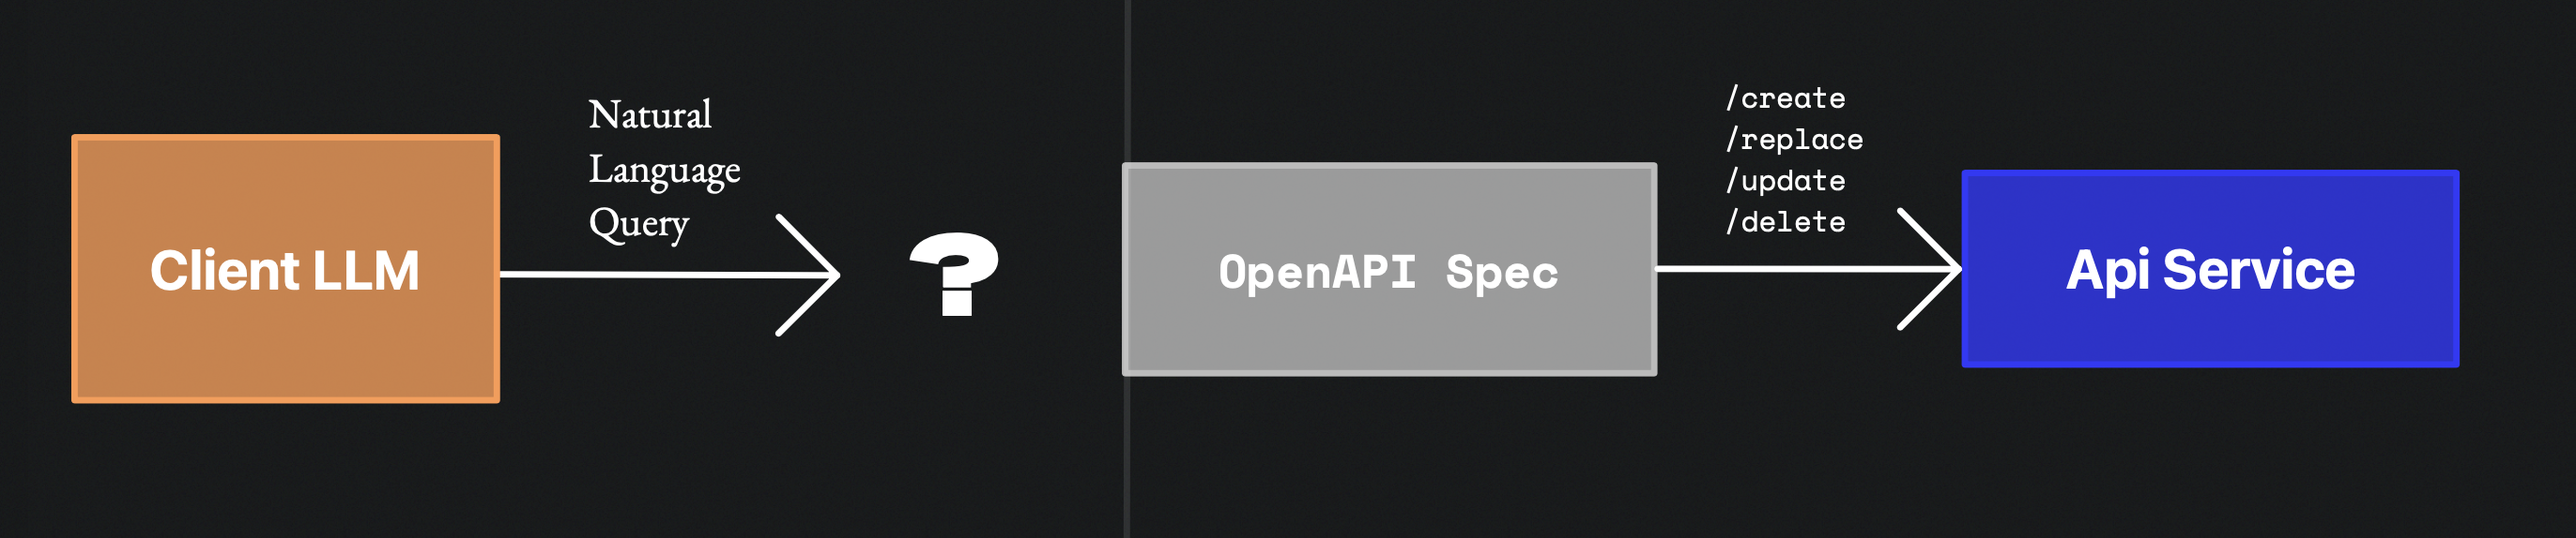
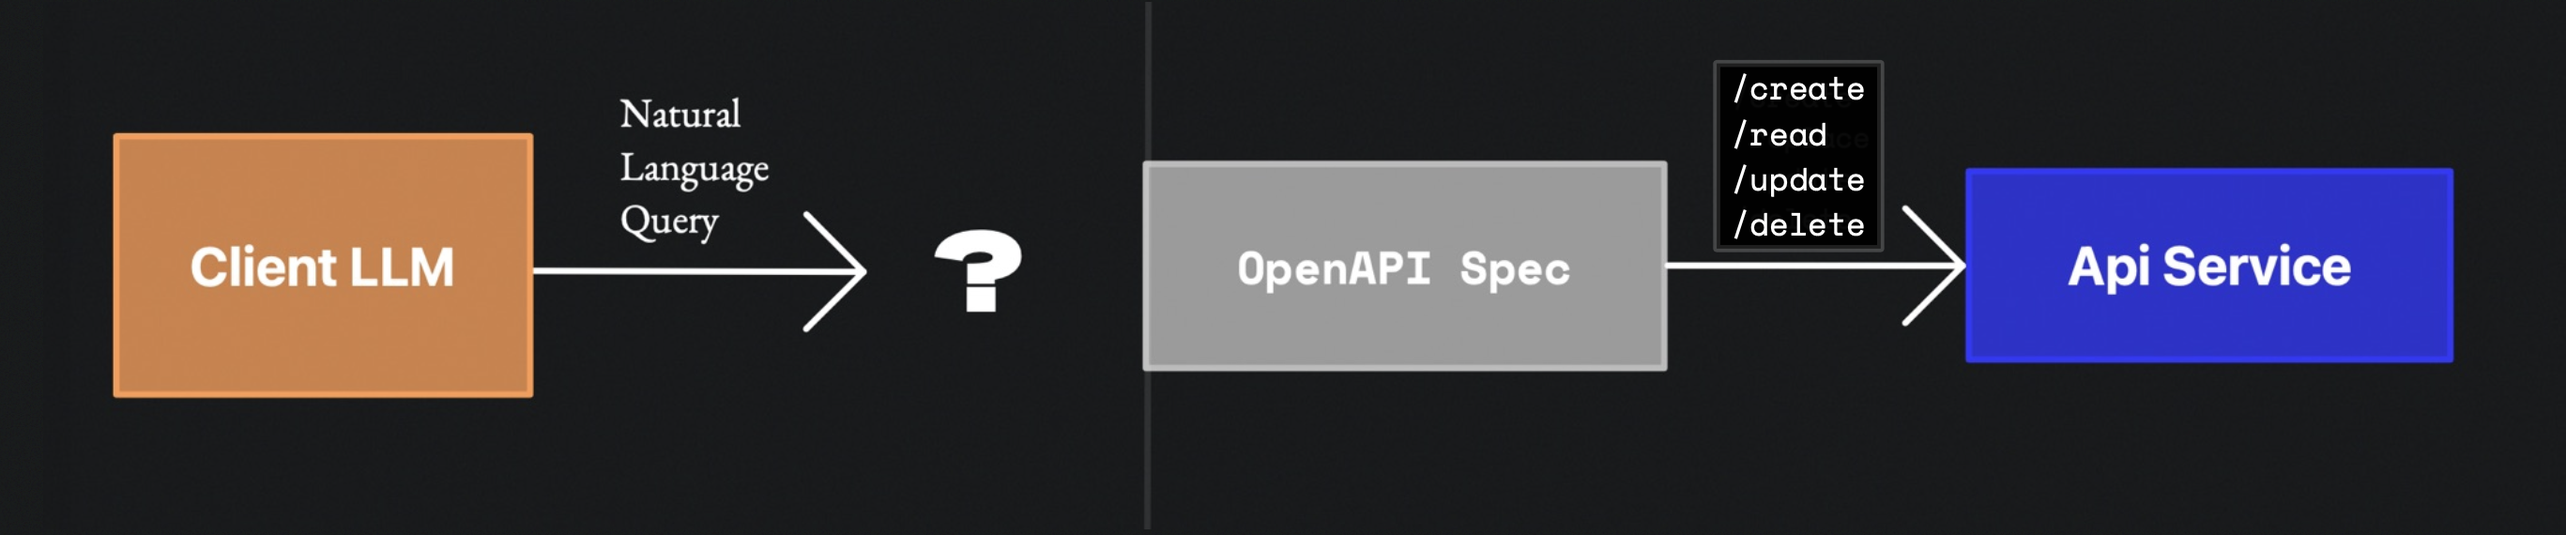
appropriately reference CRUD in README

Changed region(s): [[0.4353, 0.0895, 0.9638, 0.7158], [0.0, 0.2386, 0.4042, 0.7754], [0.2176, 0.1789, 0.3109, 0.2386]]

diff --git a/README.md b/README.md
@@ -22,15 +22,17 @@
 
 ### Use one of the quickstart notebooks to get started:
 
-→ [Stripe Agent](./examples/single.ipynb) \
-→ [Twitter + Giphy Agent](./examples/multiple.ipynb)
+| Agent | Auth | Notebook |
+| --- | --- | --- |
+| [Stripe](./examples/single.ipynb) | Bearer Token | `./examples/single.ipynb` |
+| [Twitter + Giphy](./examples/multiple.ipynb) | OAuth 1.0, API Key | `./examples/multiple.ipynb` |
 
 ## Demos
 
 |  |  |
 | --- | --- |
-| [Stripe Agent](https://wild-card.ai/stripe) | [![Stripe Agent](./static/demo/stripe-demo.png)](https://wild-card.ai/stripe) |
-| [Google Sheets Agent](https://wild-card.ai/googlesheets) | [![Google Sheets Agent](./static/demo/googlesheets-demo.png)](https://wild-card.ai/googlesheets) |
+| [Stripe Agent](https://wild-card.ai/stripe) | [<img src="./static/demo/stripe-demo.png" alt="Stripe Agent" width="300">](https://wild-card.ai/stripe) |
+| [Google Sheets Agent](https://wild-card.ai/googlesheets) | [<img src="./static/demo/googlesheets-demo.png" alt="Google Sheets Agent" width="300">](https://wild-card.ai/googlesheets) |
 
 ## agents.json Specification
 The `agents.json` Specification is an open specification that formally describes contracts for API and agent interactions, built on top of the OpenAPI standard.
@@ -76,7 +78,7 @@ To solve this, we introduce flows and links. Flows are contracts with a series o
 We propose the file placed in `/.well-known/agents.json` so it is easily discoverable by agents accessing web services. For now, we compose a GitHub repository as a registry for [available `agents.json` files](./agents_json/).
 
 <p align="center">
-<img style="text-align: center;" src="./static/diagram/LlmWorksDiagram.png" alt="LLMs with an Airgap" width="full" title="LLMs with an Airgap">
+<img style="text-align: center;" src="./static/diagram/LlmWorksDiagram.png" alt="LLMs and APIs with Agents.json" width="full" title="LLMs and APIs with Agents.json">
 </p>
 
 ### Wildcard Bridge
@@ -177,7 +179,9 @@ This project is started by [Wildcard AI](https://wild-card.ai). We're a team of 
 
 <br>
 
-<img width="full" align="center" src="./static/WildcardFoundersYC.jpg" alt="Wildcard AI Founders" width="100">
+<p align="center">
+<img align="center" src="./static/people/WildcardFoundersYC.jpg" alt="Wildcard AI Founders" width="500">
+</p>
 
 <br>
 
